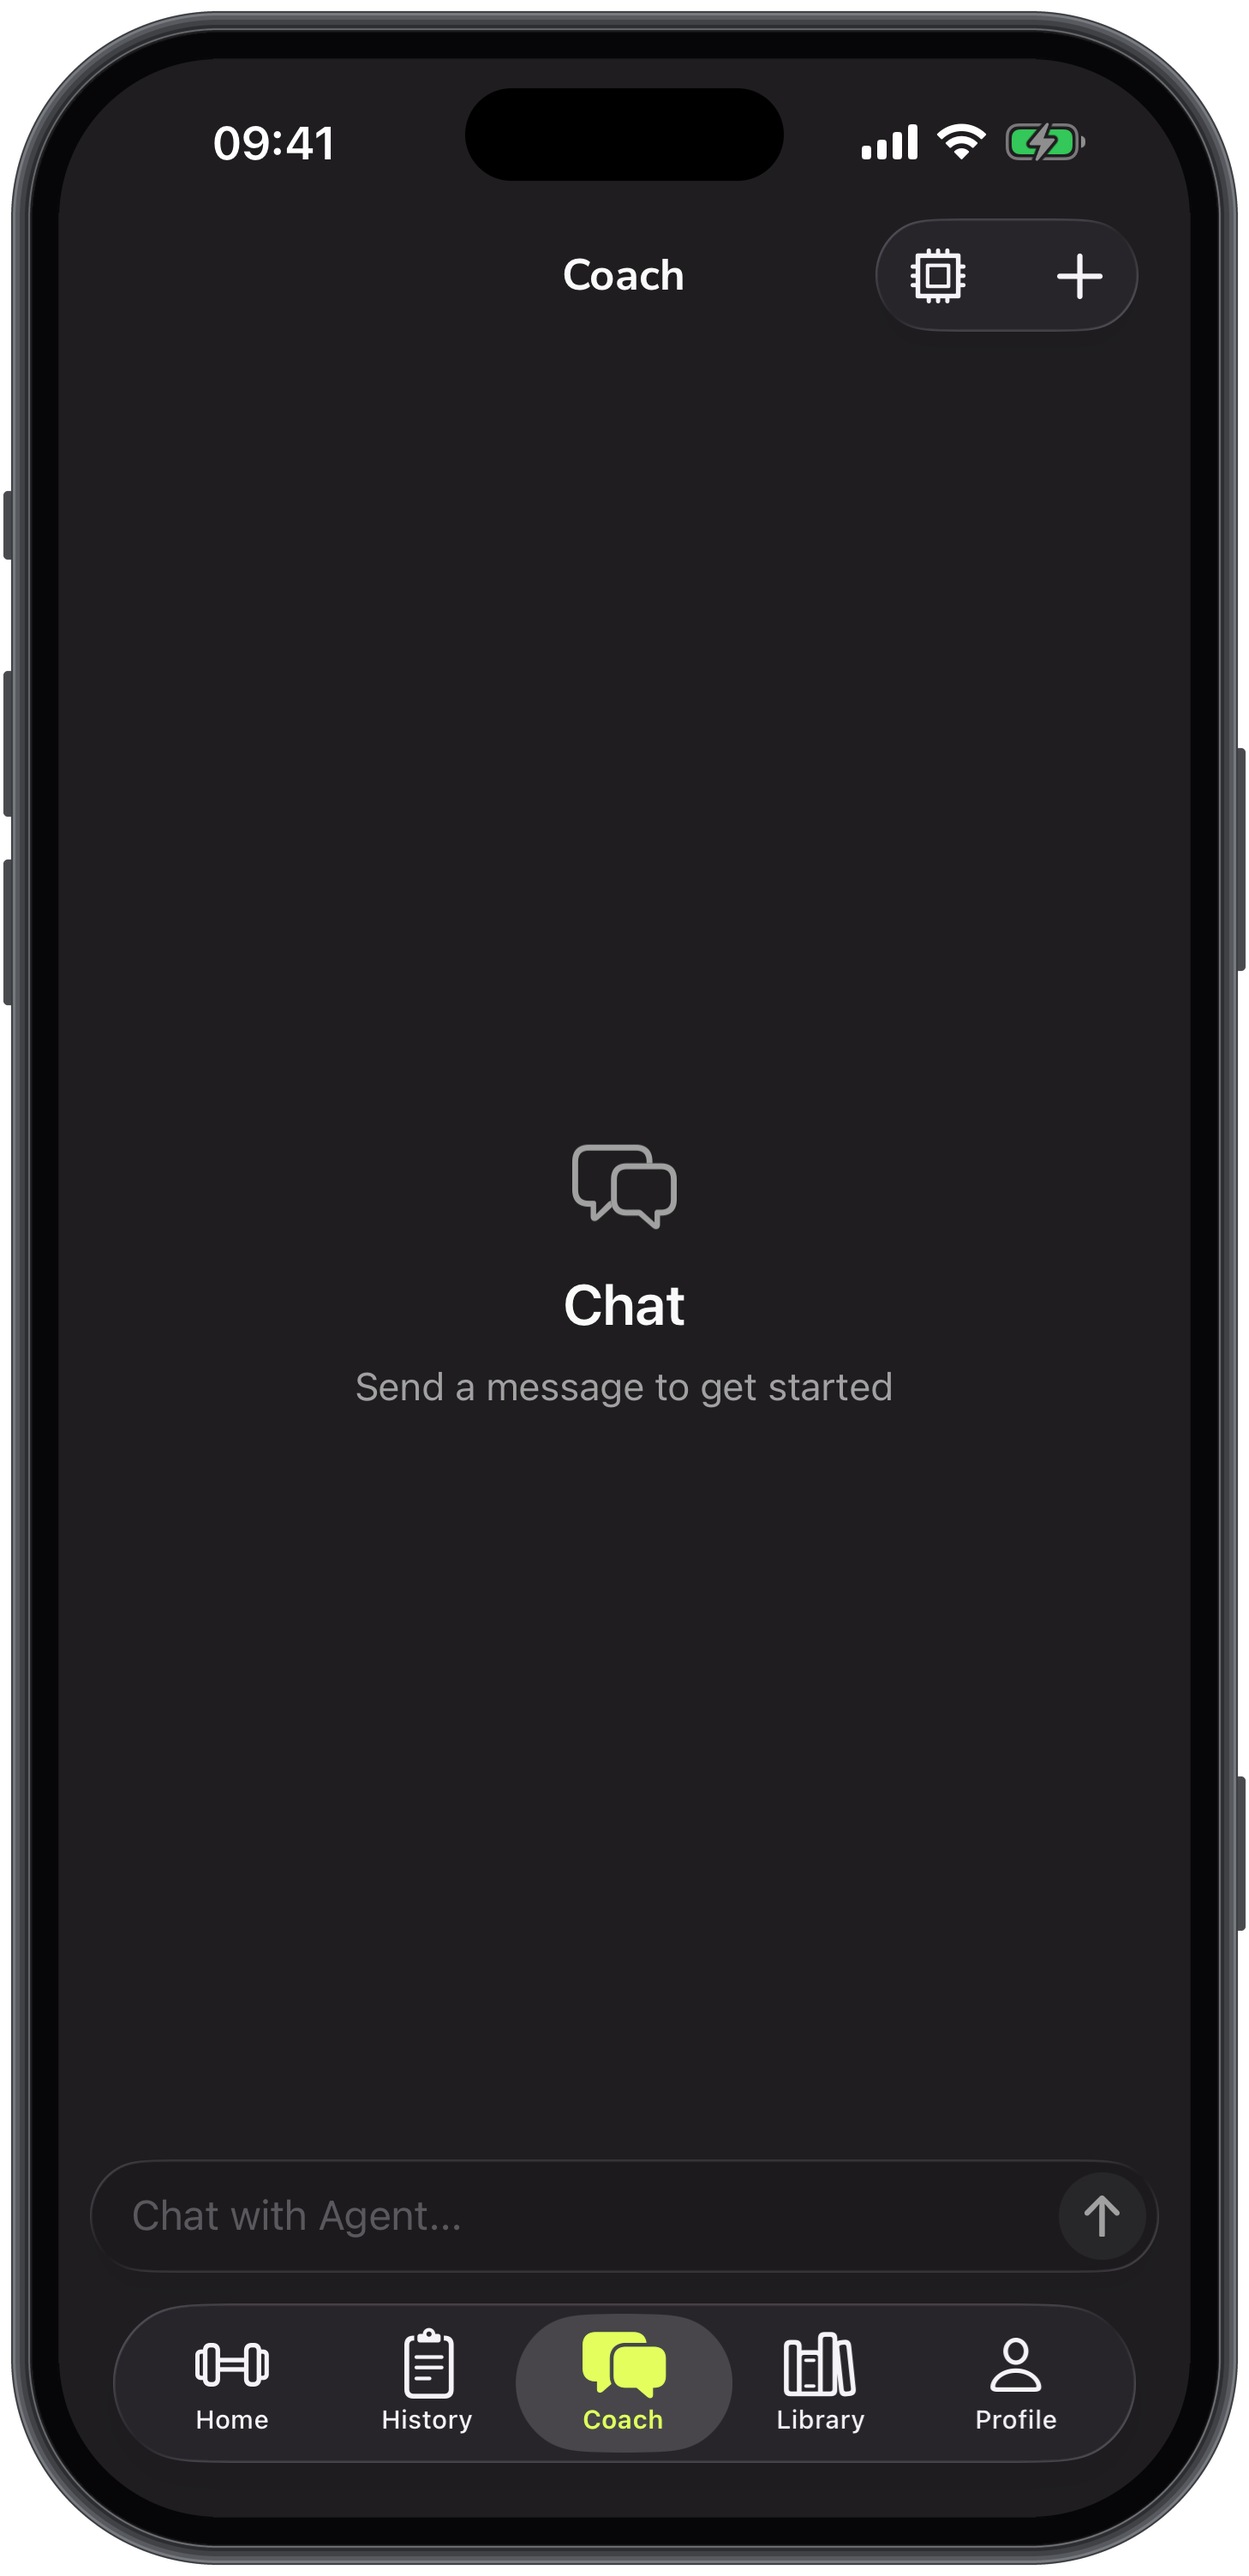
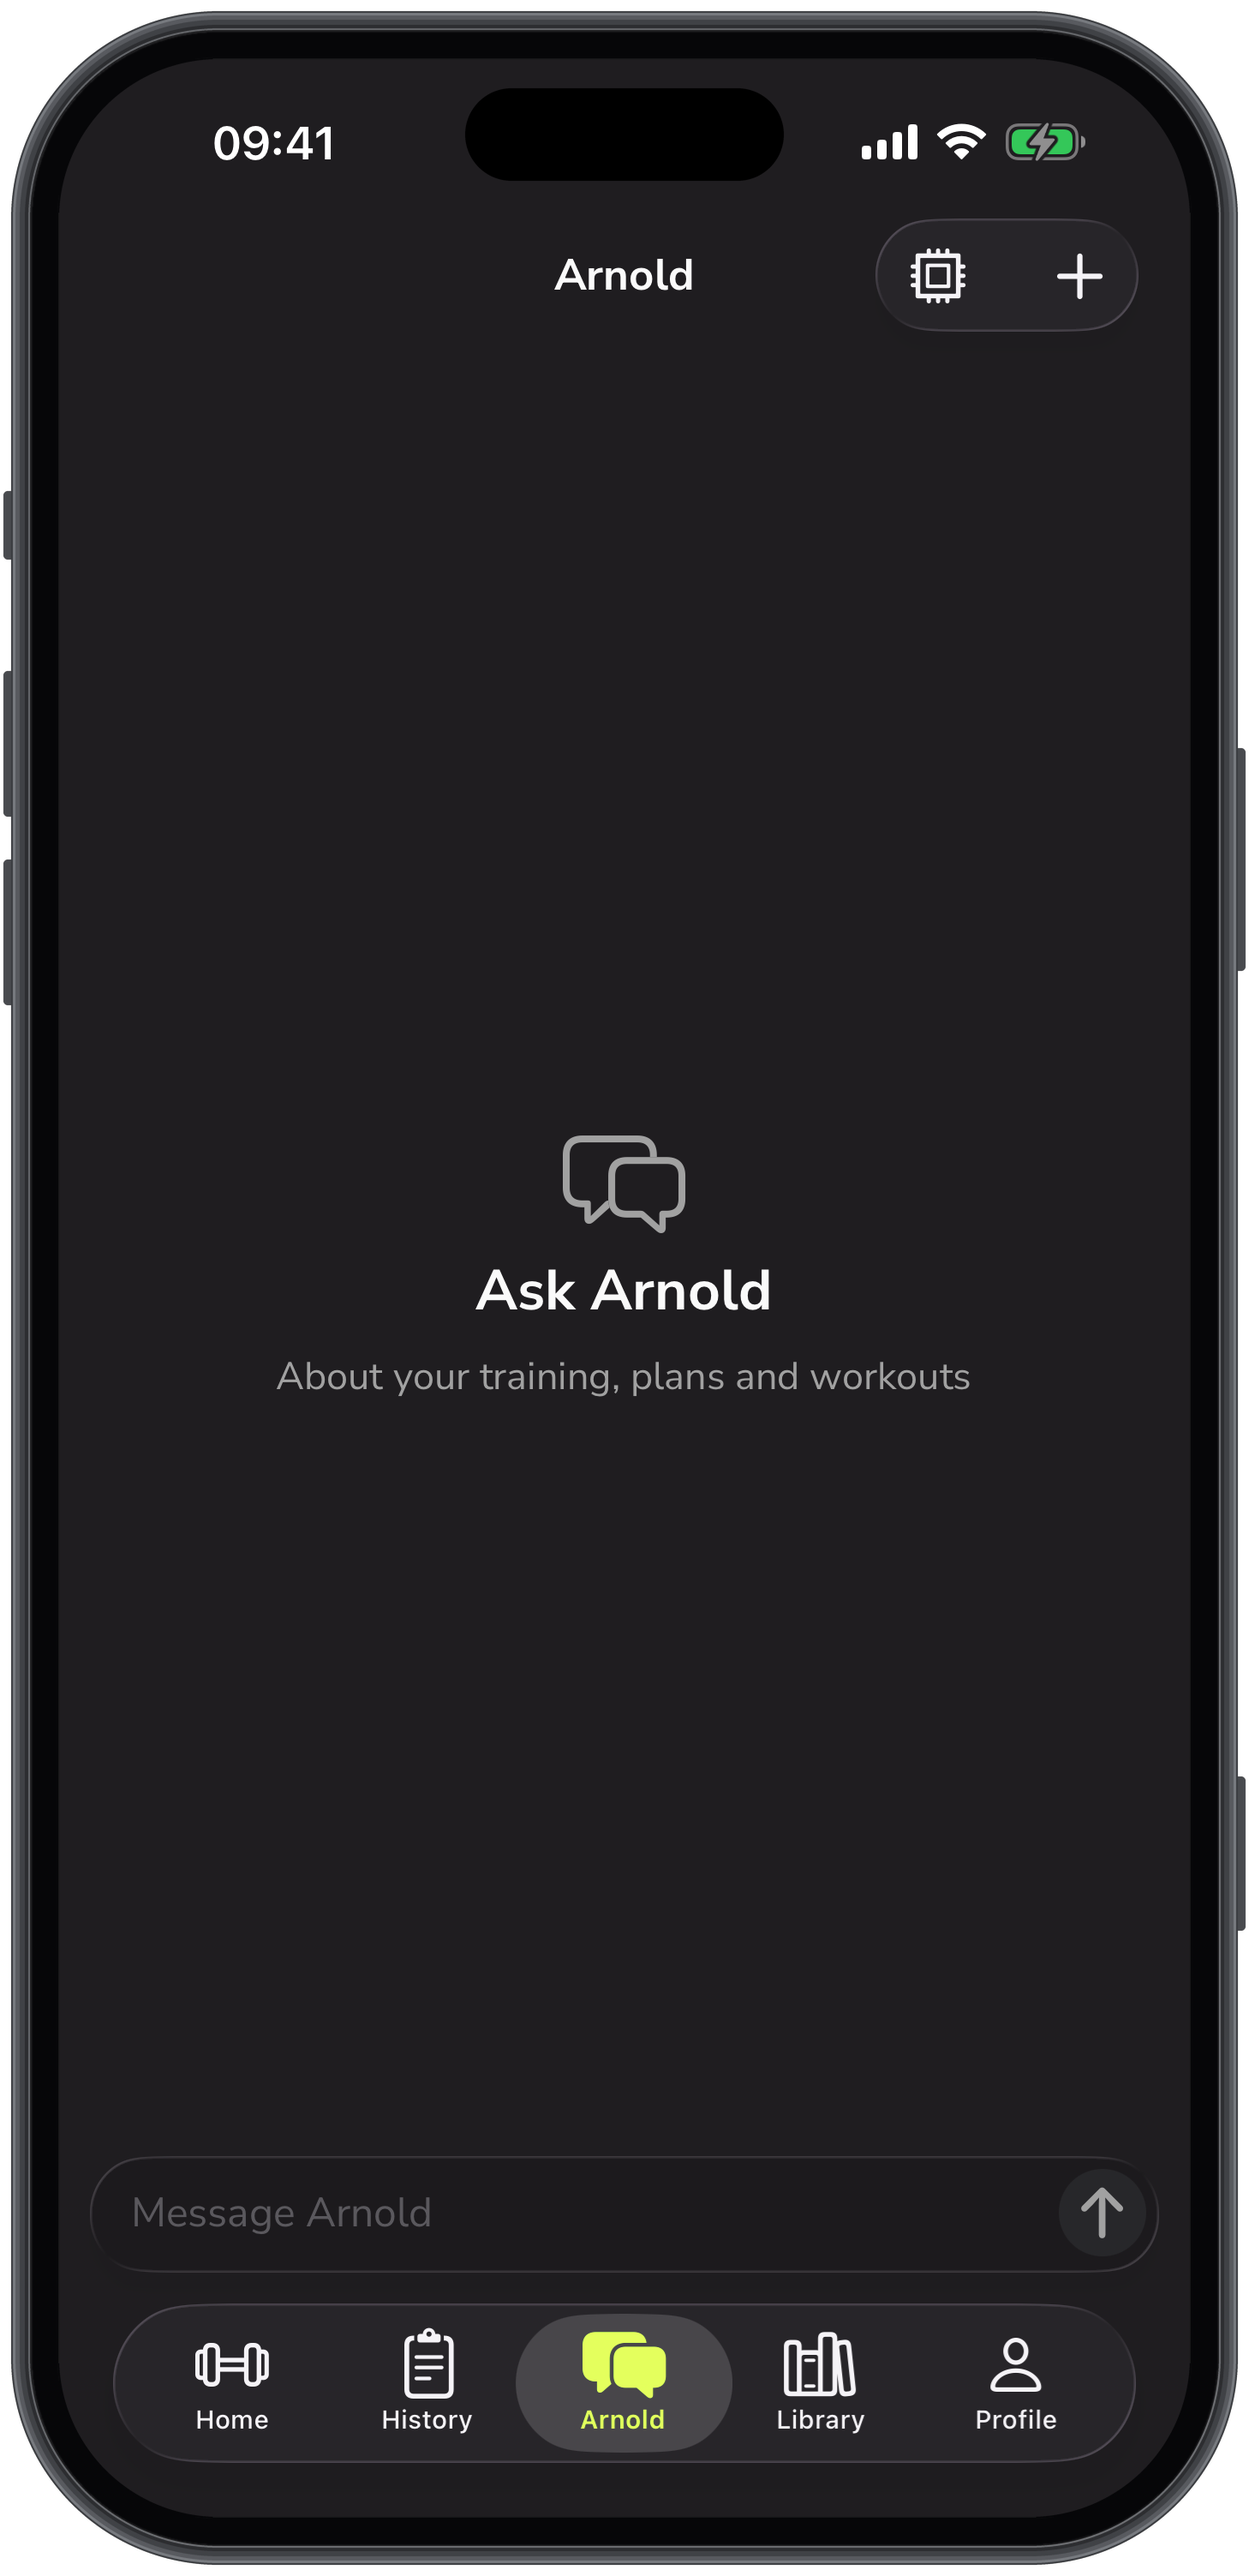
docs(marketing): recapture the Arnold screenshots (FIT-295)

diff --git a/marketing/screenshots/README.md b/marketing/screenshots/README.md
@@ -1,6 +1,6 @@
 # Fitme iOS marketing screenshots
 
-Real app (Release build, no dev overlays) against a local Supabase stack seeded with a believable account. Captured 2026-10-16 from commit `44e3fb5`, iPhone 17 Pro Max simulator (iOS 26.5, 6.9", 1320×2868), dark mode, status bar overridden to 9:41 / full Wi-Fi and signal / charged battery.
+Real app (Release build, no dev overlays) against a local Supabase stack seeded with a believable account. Captured 2026-10-16 from commit `44e3fb5` (`13-arnold.png` and `14-arnold-models.png` recaptured 2026-10-25 on the Arnold tab, from a dev client with its tools hidden), iPhone 17 Pro Max simulator (iOS 26.5, 6.9", 1320×2868), dark mode, status bar overridden to 9:41 / full Wi-Fi and signal / charged battery.
 
 | File | Shows |
 | --- | --- |
